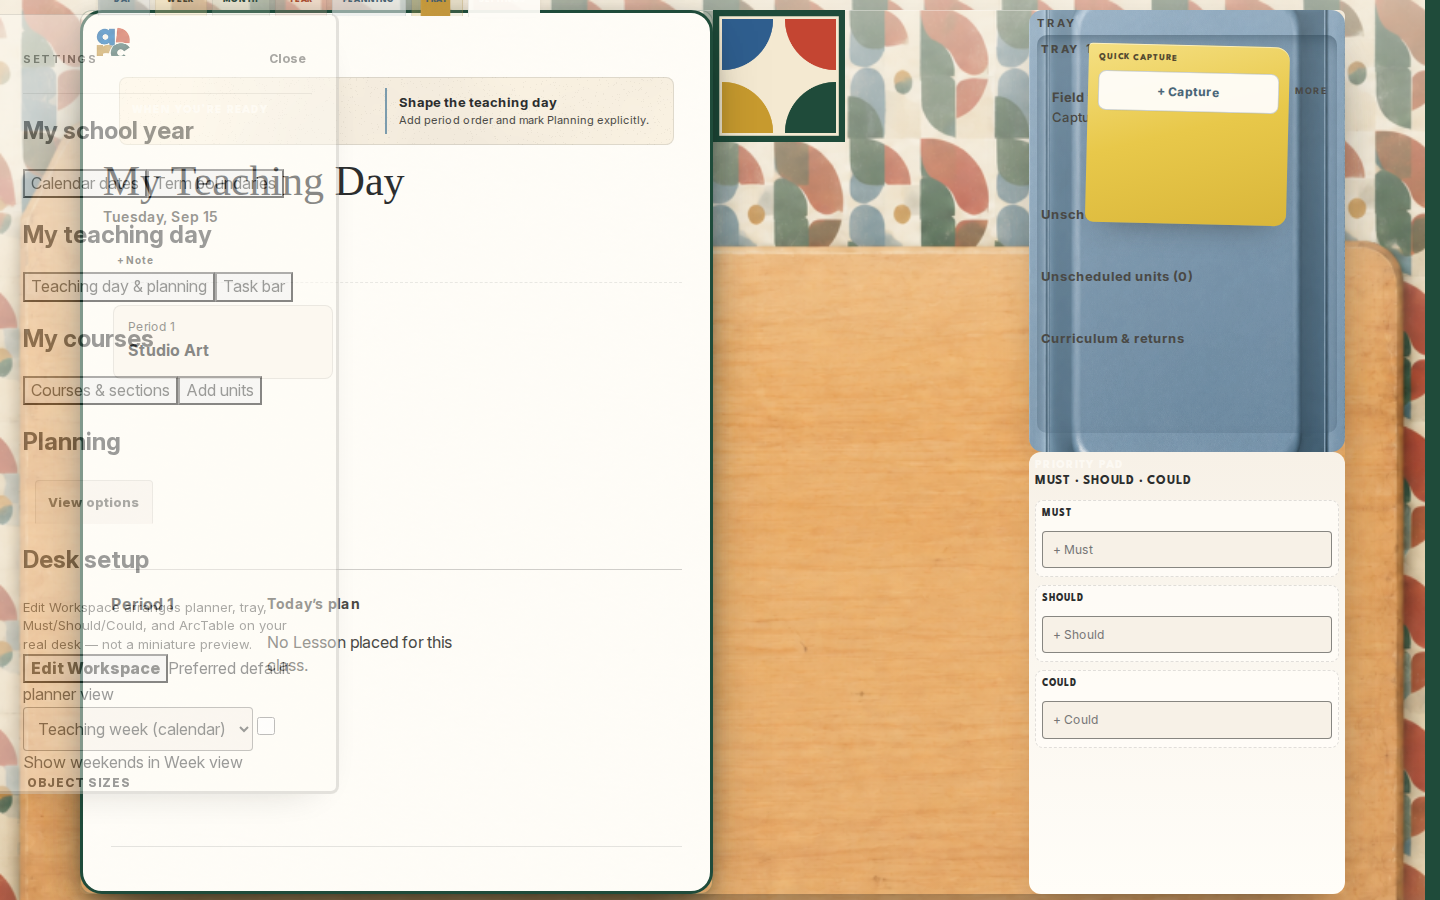
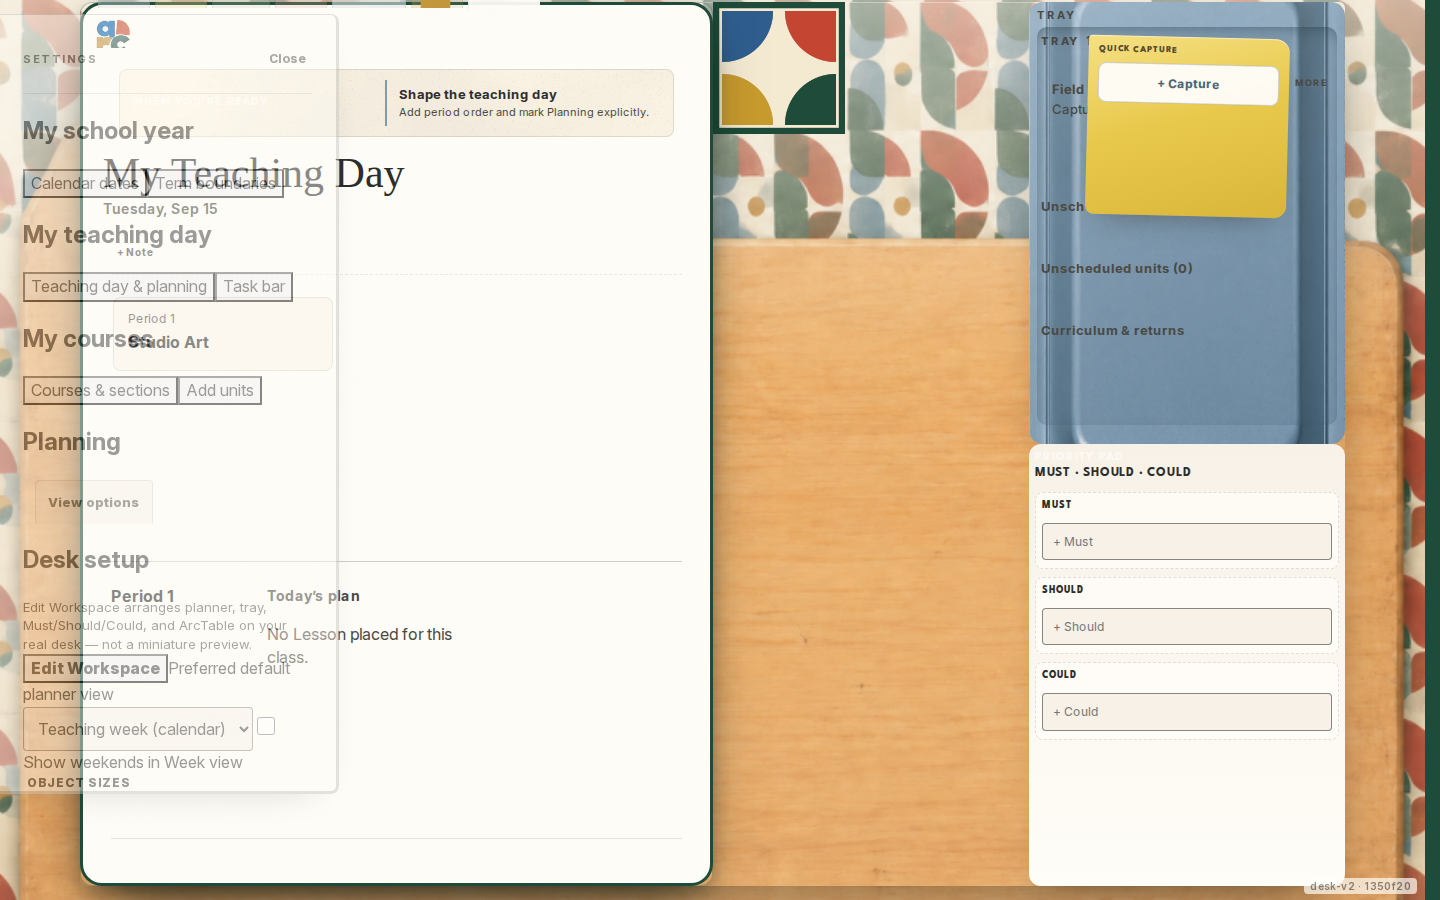
fix(desk): force desk shell on preview demo and bypass onboarding gate
Add deskPreviewGate so preview builds honor demo, forceDesk, gauntlet
calendar, and demo-seed session markers. Persist onboarding dismissal when
forced. Extend demoReset to clear arc.* session keys and mark desk preview
seed. Playwright smoke loads ?demo=1&demoReset=1 for wood shell evidence.

diff --git a/src/components/AppFrame.tsx b/src/components/AppFrame.tsx
@@ -73,6 +73,8 @@ import { DeskQuickCaptureSticky } from './DeskQuickCaptureSticky'
 import { DeskNotesObject } from './DeskNotesObject'
 import { ProgressiveSetupPrompt } from './ProgressiveSetupPrompt'
 import { assessSetupCapabilities, loadOnboardingDraft, minimumPlanningSetupEstablished, saveOnboardingDraft, type OnboardingDraft } from '../planning'
+import { readDeskPreviewSeededSession, shouldForceDeskShell } from '../demo/deskPreviewGate'
+import { deskPreviewBuildEnabled } from '../buildInfo'
 
 export function AppFrame() {
   const workspaceMode = useWorkspaceMode()
@@ -109,6 +111,28 @@ export function AppFrame() {
     }
     setStackWorkspace(loadStackWorkspace(workspace.calendar.id))
   }, [workspace.calendar?.id])
+
+  const deskPreviewBuild = deskPreviewBuildEnabled()
+
+  useEffect(() => {
+    const forceDesk = shouldForceDeskShell({
+      deskPreview: deskPreviewBuild,
+      calendarId: workspace.calendar?.id,
+      sessionSeeded: readDeskPreviewSeededSession(deskPreviewBuild),
+    })
+    if (!forceDesk || !workspace.calendar) return
+    setOnboardingDraft((current) => {
+      if (current.dismissed && current.stage === 'landed') return current
+      const next: OnboardingDraft = {
+        ...current,
+        stage: 'landed',
+        dismissed: true,
+        firstCapturePromptDismissed: true,
+      }
+      saveOnboardingDraft(next)
+      return next
+    })
+  }, [workspace.calendar?.id, deskPreviewBuild])
 
   function persistStackWorkspace(next: StackWorkspace) {
     setStackWorkspace(next)
@@ -205,12 +229,17 @@ export function AppFrame() {
   const workspaceBusy = workspaceMode.mode !== 'calendar' || !workspace.calendar || !workspace.anchorDate
   const unscheduledUnits = workspace.unitWorkspace?.units.filter((unit) => unit.placement === null) ?? []
   const setupCapabilities = assessSetupCapabilities({ calendar: workspace.calendar, planning: workspace.planningWorkspace, lessons: workspace.lessonWorkspace })
+  const forceDeskShell = shouldForceDeskShell({
+    deskPreview: deskPreviewBuild,
+    calendarId: workspace.calendar?.id,
+    sessionSeeded: readDeskPreviewSeededSession(deskPreviewBuild),
+  })
   const returningTeacher = Boolean(workspace.calendar && workspace.planningWorkspace?.courses.length && workspace.planningWorkspace.sections.length && onboardingDraft.stage === 'welcome')
   const onboardingFlowActive = onboardingDraft.stage !== 'landed'
   const showOnboarding = !returningTeacher && !onboardingDraft.dismissed && (
     onboardingFlowActive || !minimumPlanningSetupEstablished(setupCapabilities)
   )
-  const onboardingActive = showOnboarding && workspaceMode.mode === 'calendar'
+  const onboardingActive = showOnboarding && workspaceMode.mode === 'calendar' && !forceDeskShell
   const headerMode: WorkspaceMode = onboardingActive ? 'onboarding' : workspaceMode.mode
   const headerStageTitle = onboardingActive
     ? onboardingStageTitle(onboardingDraft, setupCapabilities)

diff --git a/src/demo/deskPreviewGate.ts b/src/demo/deskPreviewGate.ts
@@ -1,0 +1,55 @@
+import { GAUNTLET_DEMO_CALENDAR_ID } from './gauntletDemo'
+
+export const DESK_PREVIEW_SEEDED_SESSION_KEY = 'arc.desk-preview-seeded.v1'
+
+/** Preview / demo URL hints that must force the wood desk shell (preview builds only). */
+export function readDeskShellForceFromSearch(
+  search: string,
+  deskPreview: boolean,
+): boolean {
+  if (!deskPreview) return false
+  const params = new URLSearchParams(search)
+  if (params.get('forceDesk') === '1' || params.has('forceDesk')) return true
+  const demo = params.get('demo')
+  if (demo === '1' || demo === 'true' || demo === 'gauntlet') return true
+  if (params.get('demoReset') === '1' || params.has('demoReset')) return true
+  return false
+}
+
+export function readDeskPreviewSeededSession(
+  deskPreview: boolean,
+  storage: Storage = sessionStorage,
+): boolean {
+  if (!deskPreview) return false
+  return storage.getItem(DESK_PREVIEW_SEEDED_SESSION_KEY) === '1'
+}
+
+export function markDeskPreviewSeededSession(
+  deskPreview: boolean,
+  storage: Storage = sessionStorage,
+): void {
+  if (!deskPreview) return
+  storage.setItem(DESK_PREVIEW_SEEDED_SESSION_KEY, '1')
+}
+
+export function clearDeskPreviewSeededSession(storage: Storage = sessionStorage): void {
+  storage.removeItem(DESK_PREVIEW_SEEDED_SESSION_KEY)
+}
+
+/** When true, AppFrame must not keep the cream plan shell for onboarding/setup gating. */
+export function shouldForceDeskShell(input: {
+  deskPreview: boolean
+  locationSearch?: string
+  calendarId?: string | null
+  sessionSeeded?: boolean
+  sessionStorage?: Storage
+}): boolean {
+  if (!input.deskPreview) return false
+  const search = input.locationSearch ?? (typeof window !== 'undefined' ? window.location.search : '')
+  if (readDeskShellForceFromSearch(search, input.deskPreview)) return true
+  const session = input.sessionStorage ?? (typeof sessionStorage !== 'undefined' ? sessionStorage : null)
+  const seeded = input.sessionSeeded ?? (session ? readDeskPreviewSeededSession(input.deskPreview, session) : false)
+  if (seeded) return true
+  if (input.calendarId === GAUNTLET_DEMO_CALENDAR_ID) return true
+  return false
+}

diff --git a/src/demo/applyDemoSeed.ts b/src/demo/applyDemoSeed.ts
@@ -8,6 +8,10 @@ import { serializeUnits, UNIT_STORAGE_KEY } from '../planning/unitPersistence'
 import { serializePlanningWorkspace, PLANNING_WORKSPACE_STORAGE_KEY } from '../planning/workspacePersistence'
 import { DEFAULT_DESK_PREFERENCES } from '../navigation/deskPreferences'
 import { buildGauntletDemoBundle } from './gauntletDemo'
+import {
+  clearDeskPreviewSeededSession,
+  markDeskPreviewSeededSession,
+} from './deskPreviewGate'
 
 const CALENDAR_STORAGE_KEY = 'arc.calendar.v1'
 const VIEW_PREFERENCES_KEY = 'arc.view-preferences.v1'
@@ -53,10 +57,19 @@ function clearArcBrowserStorage(storage: Storage): void {
   for (const key of keys) storage.removeItem(key)
 }
 
+function clearArcSessionStorage(storage: Storage): void {
+  const keys: string[] = []
+  for (let index = 0; index < storage.length; index += 1) {
+    const key = storage.key(index)
+    if (key?.startsWith('arc.')) keys.push(key)
+  }
+  for (const key of keys) storage.removeItem(key)
+}
+
 export function maybeApplyDemoSeed(
   location: Pick<Location, 'search' | 'pathname' | 'hash'> = window.location,
   storage: Storage = window.localStorage,
-  options?: { envDemo?: boolean },
+  options?: { envDemo?: boolean; deskPreview?: boolean },
 ): boolean {
   const request = resolveDemoSeedRequest(location, options?.envDemo === true)
   if (!request) return false
@@ -70,8 +83,17 @@ export function maybeApplyDemoSeed(
   })()
 
   if (request.mode === 'gauntlet') {
-    if (request.force) clearArcBrowserStorage(storage)
+    if (request.force) {
+      clearArcBrowserStorage(storage)
+      if (typeof sessionStorage !== 'undefined') {
+        clearArcSessionStorage(sessionStorage)
+        clearDeskPreviewSeededSession(sessionStorage)
+      }
+    }
     writeGauntletDemo(storage)
+    if (options?.deskPreview === true && typeof sessionStorage !== 'undefined') {
+      markDeskPreviewSeededSession(true, sessionStorage)
+    }
   }
 
   const params = new URLSearchParams(location.search)

diff --git a/src/demo/deskPreviewGate.contract.ts b/src/demo/deskPreviewGate.contract.ts
@@ -1,0 +1,23 @@
+import { GAUNTLET_DEMO_CALENDAR_ID } from './gauntletDemo'
+import { readDeskShellForceFromSearch, shouldForceDeskShell } from './deskPreviewGate'
+
+function assert(condition: unknown, message: string): asserts condition {
+  if (!condition) throw new Error(message)
+}
+
+assert(!readDeskShellForceFromSearch('?demo=1', false), 'demo query is ignored outside desk preview builds.')
+assert(!shouldForceDeskShell({ locationSearch: '?forceDesk=1', deskPreview: false }), 'forceDesk is preview-build only.')
+
+assert(readDeskShellForceFromSearch('?demo=1', true), 'demo=1 must force desk shell on preview builds.')
+assert(readDeskShellForceFromSearch('?demoReset=1', true), 'demoReset must force desk shell on preview builds.')
+assert(readDeskShellForceFromSearch('?forceDesk=1', true), 'forceDesk=1 must force desk shell on preview builds.')
+assert(
+  shouldForceDeskShell({ locationSearch: '', calendarId: GAUNTLET_DEMO_CALENDAR_ID, deskPreview: true }),
+  'Gauntlet calendar id must force desk shell on preview builds.',
+)
+assert(
+  shouldForceDeskShell({ locationSearch: '', sessionSeeded: true, deskPreview: true }),
+  'Demo seed session marker must force desk shell on preview builds.',
+)
+
+console.log('desk preview gate contract passed')

diff --git a/src/main.tsx b/src/main.tsx
@@ -32,7 +32,10 @@ import './styles/repair-pass-3-chrome.css'
 import './styles/interaction-laws.css'
 import './styles/arc-desk.css'
 
-maybeApplyDemoSeed(window.location, window.localStorage, { envDemo: import.meta.env.VITE_ARC_DEMO === 'true' })
+maybeApplyDemoSeed(window.location, window.localStorage, {
+  envDemo: import.meta.env.VITE_ARC_DEMO === 'true',
+  deskPreview: import.meta.env.VITE_ARC_DESK_PREVIEW === 'true',
+})
 applyArcBuildStamp()
 
 ReactDOM.createRoot(document.getElementById('root')!).render(

diff --git a/docs/LOCAL-PREVIEW.md b/docs/LOCAL-PREVIEW.md
@@ -163,3 +163,5 @@ If step 3–5 fail, you do **not** have the integration desk build — CSS-only 
 ### CalendarStageHeader vs desk shell
 
 On the **desk** build, legacy **Calendar** chrome (`CALENDAR` label, month dropdown in the spread header) is **hidden by CSS** when `.arc-shell--desk` is active. If you still see that header, the app never entered the desk shell (onboarding / wrong branch / old bundle). **`?demo=1&demoReset=1`** re-seeds storage and reloads so onboarding is skipped and the wood desk shell (`arc-shell--desk`) can mount. No stamp ⇒ the new code path is not loaded at all.
+
+**Month view inside the desk:** The planner spread can stay **cream/paper** while the **outer** viewport is **wood** — that is normal. If the **full page** is cream with the green **pattern** mat and a **CALENDAR** stage header, you are still on the legacy plan shell, not `.arc-shell--desk`. Preview builds also honor **`?forceDesk=1`** (with `demo=1`) to bypass onboarding gating when stale storage blocked the desk path.
